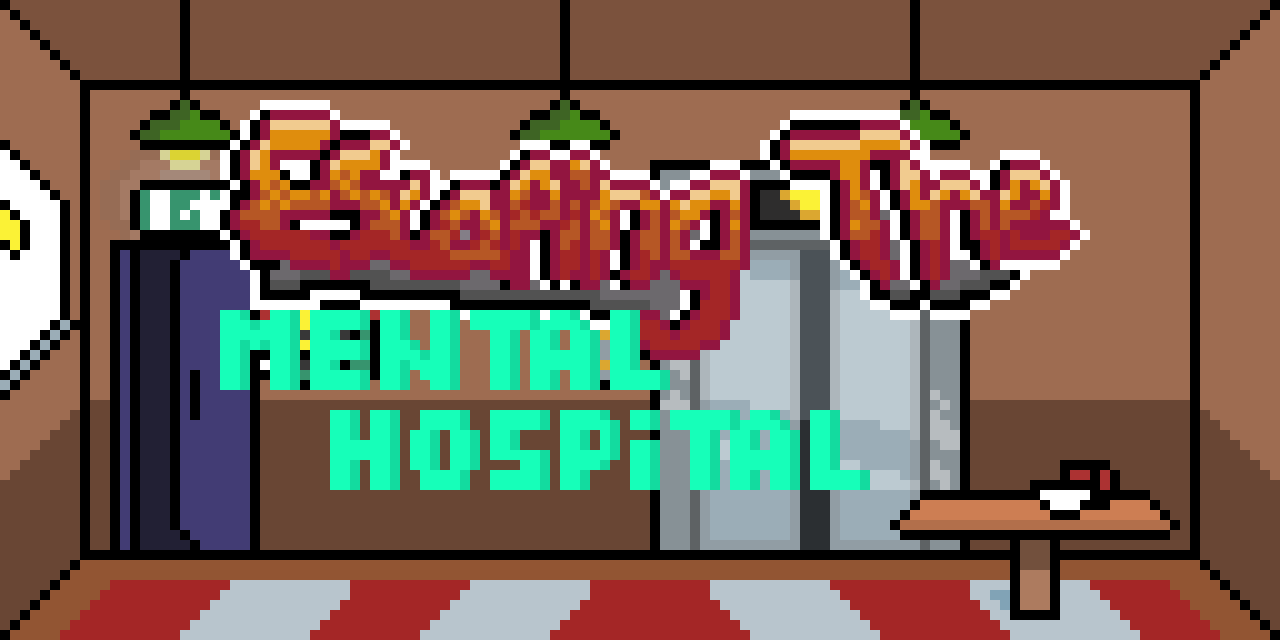
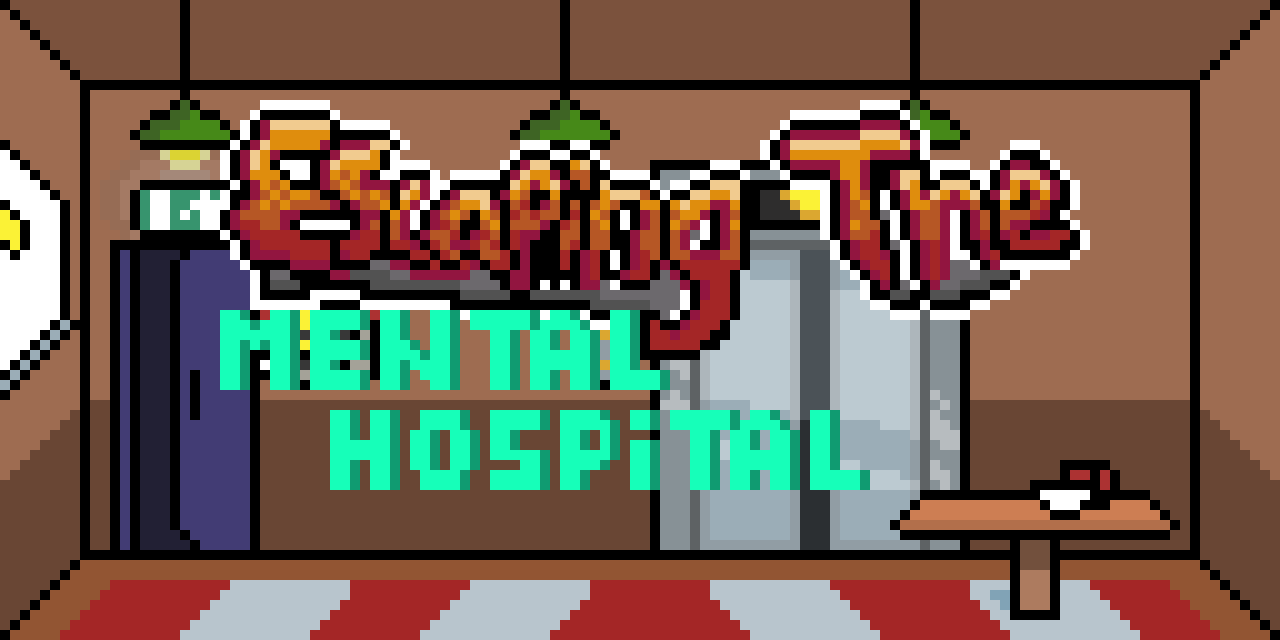
chore: titleupdate and new webcomponent

diff --git a/src/web/src/components/ClickInteractableComponent.ts b/src/web/src/components/ClickInteractableComponent.ts
@@ -30,7 +30,7 @@ const styles: string = css`
 
 `;
 
-export class ArrowComponent extends HTMLElement {
+export class ClickInteractableComponent extends HTMLElement {
     /** Instance of the game event service */
     private readonly _gameEventService: GameEventService = new GameEventService();
     /** Instance of the game route service */
@@ -106,67 +106,5 @@ export class ArrowComponent extends HTMLElement {
         }
 
         this.shadowRoot.append(...element);
-    }
-
-    private renderArrow(): HTMLElement[] | undefined {
-        const roomArrowImages: Arrowroom[] | undefined = this._currentGameState?.roomArrowImages;
-        console.log(roomArrowImages);
-        if (roomArrowImages && roomArrowImages.length > 0) {
-            return roomArrowImages.map(arrow => this.createArrowElement(arrow));
-        }
-
-        return htmlArray``;
-    }
-
-    private createArrowElement(arrow: Arrowroom): HTMLElement {
-        const img: HTMLImageElement = document.createElement("img");
-
-        img.classList.add("arrow");
-        img.src = "/assets/img/Arrows/Arrow.png";
-        img.style.transform = `rotate(${arrow.imageRotation}deg)`;
-        img.style.width = "7%";
-        img.style.height = "auto";
-        img.style.left = `${arrow.imageCoords.x}%`;
-        img.style.top = `${arrow.imageCoords.y}%`;
-        img.style.position = "absolute";
-
-        img.addEventListener("click", () => this.handleClickArrow(arrow));
-        img.addEventListener("mouseover", () => this.handleHoverArrow(arrow));
-        img.addEventListener("mouseleave", () => this.handleNoHoverArrow());
-
-        return img;
-    }
-
-    private async handleClickArrow(arrow: Arrowroom): Promise<void> {
-        console.log(`${arrow.alias} clicked!`);
-        const roomAlias: string = arrow.alias;
-
-        const state: GameState | undefined = await this._gameRouteService.executeRoomAction(roomAlias);
-        console.log(state);
-        if (state) {
-            this.Connect(state);
-        }
-    }
-
-    private handleHoverArrow(arrow: Arrowroom): void {
-        console.log(`${arrow.alias} hovered!`);
-        // const roomAlias: string = arrow.alias;
-        const locationText: HTMLParagraphElement | null = this.shadowRoot?.querySelector(".locationText") as HTMLParagraphElement | null;
-        if (locationText) {
-            locationText.textContent = `Enter ${arrow.name}`;
-        }
-        else {
-            console.warn("error");
-        }
-    }
-
-    private handleNoHoverArrow(): void {
-        const locationText: HTMLParagraphElement | null = this.shadowRoot?.querySelector(".locationText") as HTMLParagraphElement | null;
-        if (locationText) {
-            locationText.textContent = "";
-        }
-        else {
-            console.warn("error");
-        }
     }
 }
